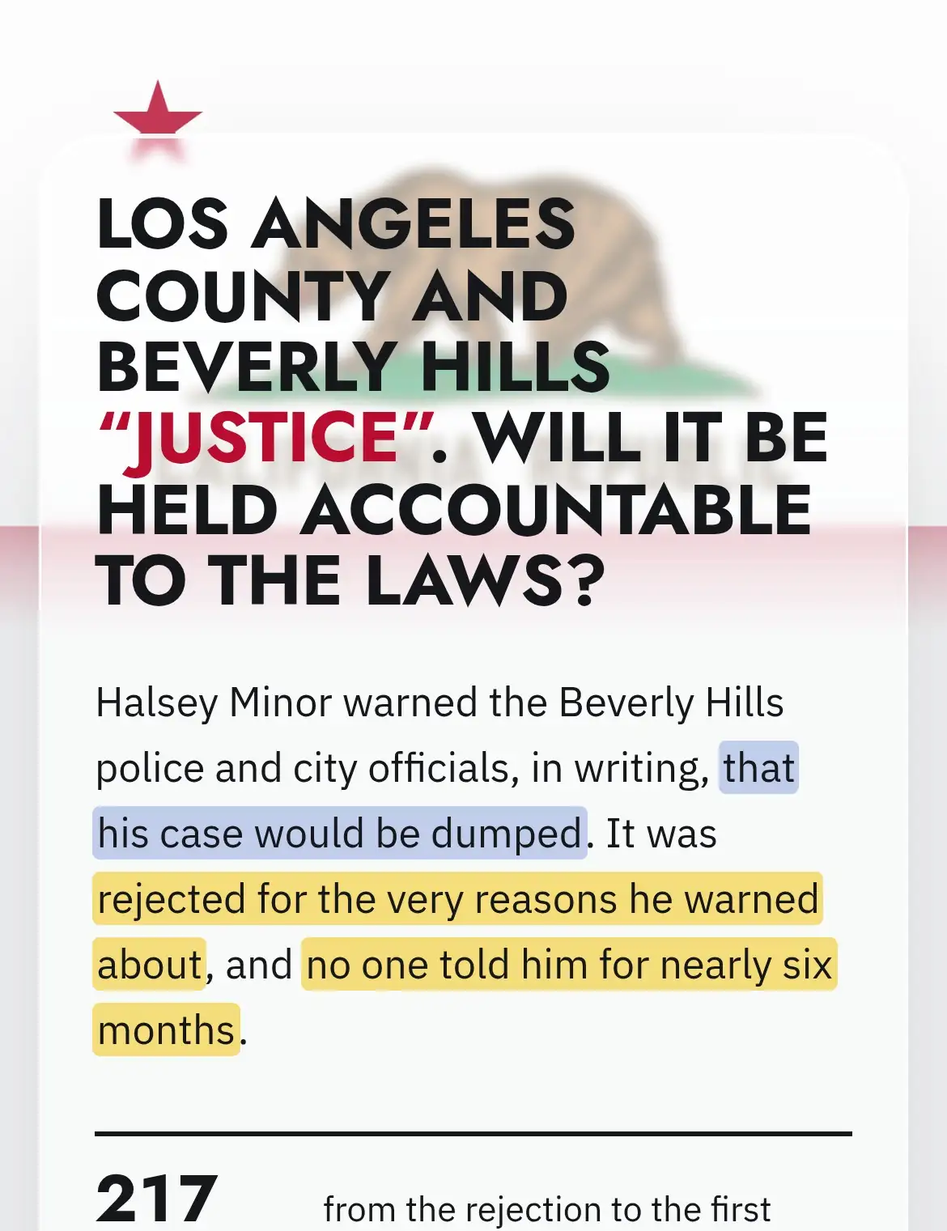
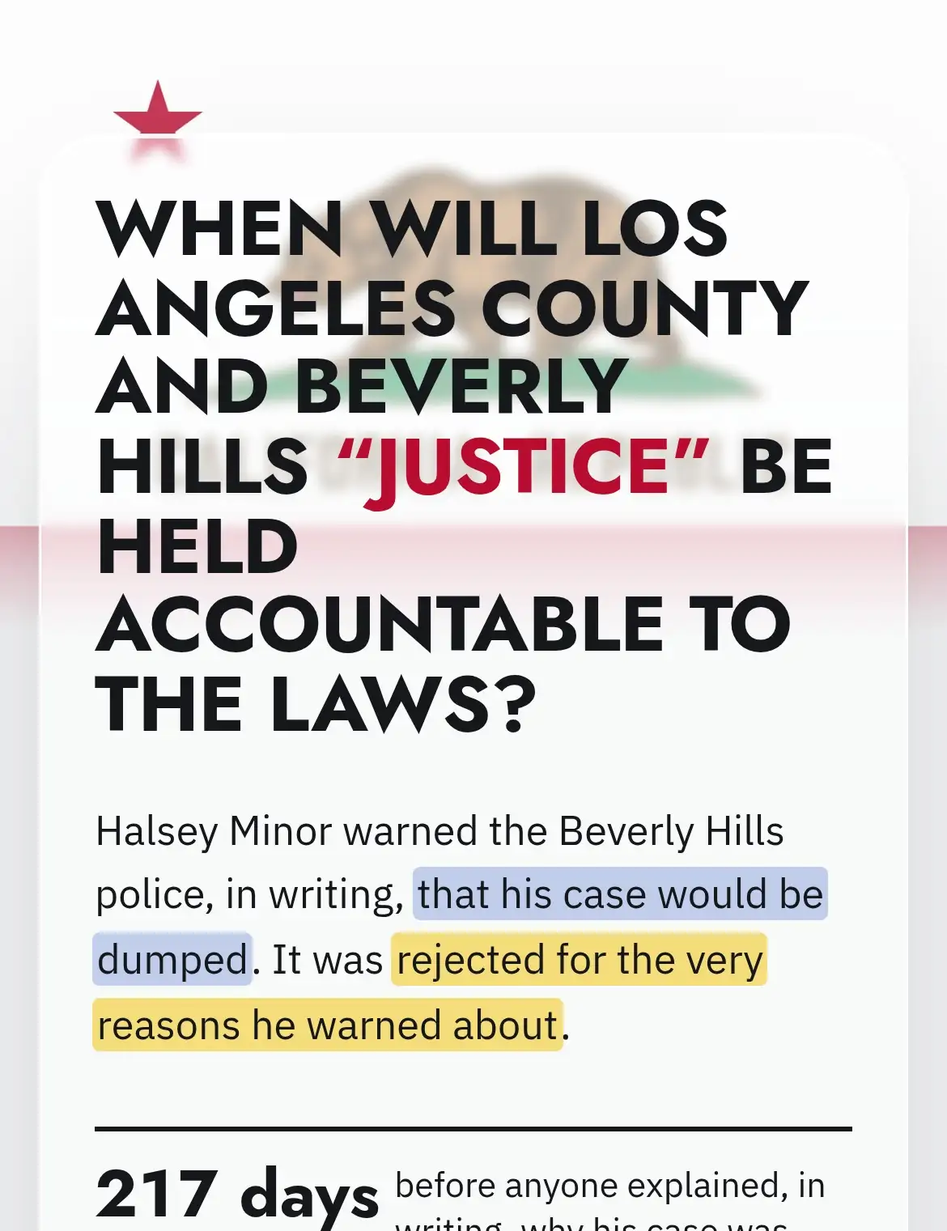
halseyminor.com: counts as of 2026-10-26

Changed region(s): [[0.0923, 0.1545, 0.8923, 0.8652], [0.0923, 0.8961, 0.8923, 1.0]]

diff --git a/index.html b/index.html
@@ -13,20 +13,20 @@
 <meta charset="utf-8">
 <meta name="viewport" content="width=device-width, initial-scale=1, viewport-fit=cover">
 <title>The Justice Meter · Halsey Minor</title>
-<meta name="description" content="Halsey Minor warned the Beverly Hills police and city officials, in writing, that his case would be dumped. It was rejected for the very reasons he warned about, and no one told him for nearly six months.">
+<meta name="description" content="Halsey Minor warned the Beverly Hills police, in writing, that his case would be dumped. It was rejected for the very reasons he warned about.">
 <link rel="canonical" href="https://halseyminor.com/">
 <meta property="og:type" content="website">
 <meta property="og:site_name" content="Halsey Minor">
 <meta property="og:url" content="https://halseyminor.com/">
-<meta property="og:title" content="LOS ANGELES COUNTY AND BEVERLY HILLS “JUSTICE”. WILL IT BE HELD ACCOUNTABLE TO THE LAWS?">
-<meta property="og:description" content="Halsey Minor warned the Beverly Hills police and city officials, in writing, that his case would be dumped. It was rejected for the very reasons he warned about, and no one told him for nearly six months.">
+<meta property="og:title" content="WHEN WILL LOS ANGELES COUNTY AND BEVERLY HILLS “JUSTICE” BE HELD ACCOUNTABLE TO THE LAWS?">
+<meta property="og:description" content="Halsey Minor warned the Beverly Hills police, in writing, that his case would be dumped. It was rejected for the very reasons he warned about.">
 <meta property="og:image" content="https://halseyminor.com/share.png">
 <meta property="og:image:width" content="1200">
 <meta property="og:image:height" content="630">
 <meta property="og:image:alt" content="The Justice Meter: the needle points at injustice.">
 <meta name="twitter:card" content="summary_large_image">
-<meta name="twitter:title" content="LOS ANGELES COUNTY AND BEVERLY HILLS “JUSTICE”. WILL IT BE HELD ACCOUNTABLE TO THE LAWS?">
-<meta name="twitter:description" content="Halsey Minor warned the Beverly Hills police and city officials, in writing, that his case would be dumped. It was rejected for the very reasons he warned about, and no one told him for nearly six months.">
+<meta name="twitter:title" content="WHEN WILL LOS ANGELES COUNTY AND BEVERLY HILLS “JUSTICE” BE HELD ACCOUNTABLE TO THE LAWS?">
+<meta name="twitter:description" content="Halsey Minor warned the Beverly Hills police, in writing, that his case would be dumped. It was rejected for the very reasons he warned about.">
 <meta name="twitter:image" content="https://halseyminor.com/share.png">
 <link rel="icon" href="/favicon.svg" type="image/svg+xml">
 <link rel="icon" href="/favicon-32.png" sizes="32x32" type="image/png">
@@ -108,10 +108,15 @@ h1 .q { color: var(--red) }
 .stats { list-style: none; margin: 28px 0 0; padding: 0; display: grid; grid-auto-flow: column; grid-auto-columns: minmax(0, 1fr); gap: 0; border-top: 2px solid var(--ink) }
 .stats li { padding: 14px 14px 0 0; display: grid; gap: 6px; align-content: start }
 .stats li + li { padding-left: 14px; border-left: 1px solid rgba(21,23,26,.18) }
-.stats li > b { justify-self: start; font: 700 clamp(1.7rem, 3.2vw, 2.6rem)/1 var(--display); font-variant-numeric: tabular-nums; background: linear-gradient(transparent 62%, var(--yellow) 62%) }
+.stats li b { justify-self: start; font: 700 clamp(1.7rem, 3.2vw, 2.6rem)/1 var(--display); font-variant-numeric: tabular-nums; background: linear-gradient(transparent 62%, var(--yellow) 62%) }
 .stats span { font-size: .9rem; line-height: 1.35; color: var(--ink) }
 .stats span span { font-size: inherit }
-@media (max-width: 520px) { .stats { grid-auto-flow: row; grid-template-columns: minmax(0, 1fr) } .stats li, .stats li + li { padding: 12px 0; border-left: 0; border-bottom: 1px solid rgba(21,23,26,.14); grid-template-columns: 5.5rem minmax(0,1fr); align-items: baseline } }
+@media (max-width: 520px) { .stats { grid-auto-flow: row; grid-template-columns: minmax(0, 1fr) } .stats li, .stats li + li { padding: 12px 0; border-left: 0; border-bottom: 1px solid rgba(21,23,26,.14) }
+  .stats .stat-open { grid-template-columns: auto minmax(0,1fr); align-items: baseline; column-gap: 14px } .stats .stat-more { grid-column: 2 } .stats .stat-open > b { white-space: nowrap; align-self: start } }
+.stats .stat-open { all: unset; box-sizing: border-box; display: grid; gap: 6px; align-content: start; width: 100%; cursor: pointer; border-radius: 10px }
+.stats .stat-open:focus-visible { outline: 3px solid var(--blue); outline-offset: 4px } .stats .stat-more { font: 600 13px/1.3 var(--body); font-style: normal; color: var(--blue) }
+.stats .stat-open:hover .stat-more { text-decoration: underline; text-underline-offset: 3px }
+.pop-body ol.rec-list { display: grid; margin: 0 } .pop-body ol.rec-list li { display: grid }
 .meter { margin: 0; display: grid; justify-items: center }
 .meter svg { width: min(100%, 400px); height: auto; display: block; overflow: visible }
 .meter { gap: 14px }
@@ -392,6 +397,7 @@ h2 { margin-bottom: 16px; font-size: clamp(1.4rem, 2.7vw, 2.2rem) }
 .ask { font-size: clamp(2rem, 4.6vw, 3.6rem) }
 .hero.end .hl { margin-top: 14px }
 h1 { font-size: clamp(1.8rem, 3.9vw, 3.4rem) }
+#top h1 { font-size: clamp(2rem, 4.3vw, 3.75rem) }
 .due-count { margin: -6px 0 14px; font-size: .98rem }
 .clock-list li { padding: 8px 0 8px 10px; font-size: .93rem; grid-template-columns: 5.8rem minmax(0, 1fr); gap: 10px }
 .hl { font-size: clamp(1.02rem, 1.7vw, 1.25rem); padding: 14px 18px }
@@ -480,6 +486,36 @@ html.arrive .nav-a.ar-lit { opacity: 1; border-bottom-color: #FFFFFF; text-shado
 .ar-skip { position: absolute; right: max(16px, env(safe-area-inset-right, 0px)); bottom: max(16px, env(safe-area-inset-bottom, 0px)); appearance: none; border: 1px solid rgba(255, 255, 255, .35);
   background: rgba(255, 255, 255, .08); color: #FFFFFF; border-radius: 999px; padding: 9px 16px; font: 600 14px/1 var(--body); letter-spacing: .04em; cursor: pointer }
 </style>
+<style>
+.nx { width: calc(100% - 2 * max(16px, env(safe-area-inset-left, 0px))); max-width: 1160px; margin: 40px auto 44px }
+@media (min-width: 760px) { .nx { width: calc(100% - 2 * max(40px, env(safe-area-inset-left, 0px))); margin: 56px auto 60px } }
+.nx-card { position: relative; display: grid; grid-template-columns: minmax(0, 1fr) clamp(130px, 24vw, 290px); align-items: center; gap: clamp(16px, 3vw, 44px);
+  padding: clamp(22px, 3.4vw, 40px) clamp(20px, 3.6vw, 48px); border-radius: 24px; overflow: hidden; text-decoration: none; color: #FFFFFF;
+  background: radial-gradient(70% 95% at 50% -32%, rgba(255, 249, 232, .32) 0%, rgba(255, 249, 232, 0) 70%), linear-gradient(125deg, #2A66D8 0%, #1F56C3 46%, #173E90 100%);
+  box-shadow: 0 24px 46px -26px rgba(21, 23, 26, .6), inset 0 1px 0 rgba(255, 255, 255, .28) }
+.nx-card:focus-visible { outline: 3px solid #1F56C3; outline-offset: 4px }
+.nx-text { display: grid; gap: 10px; min-width: 0 }
+.nx-k { font: 500 12px/1 "IBM Plex Mono", Menlo, monospace; letter-spacing: .22em; text-transform: uppercase; color: rgba(255, 255, 255, .8) }
+.nx-name { font: 800 clamp(28px, 4.8vw, 54px)/1.04 "Jost", "Futura", "Century Gothic", Arial, sans-serif; letter-spacing: .01em; text-wrap: balance }
+.nx-name span { display: inline-block; transition: transform .35s ease }
+.nx-line { max-width: 34rem; font: 400 clamp(15px, 1.6vw, 18px)/1.45 "IBM Plex Sans", "Helvetica Neue", Arial, sans-serif; color: rgba(255, 255, 255, .9) }
+.nx-line b { font-weight: 600; color: #FFFFFF }
+.nx-track { display: flex; gap: 6px; margin-top: 8px }
+.nx-track i { width: 34px; height: 6px; border-radius: 3px; background: rgba(255, 255, 255, .3) }
+.nx-track i.on { background: #FFFFFF }
+.nx-track i.go { background: transparent; box-shadow: inset 0 0 0 2px #FFFFFF, 0 0 12px rgba(255, 255, 255, .75) }
+.nx-track i.on.go { background: #FFFFFF }
+.nx-pic { perspective: 900px; width: 100%; justify-self: end }
+.nx-img { display: block; width: 100%; height: auto; aspect-ratio: 1 / 1.05; object-fit: cover; object-position: 50% 0; border-radius: 14px;
+  transform: rotateY(-16deg) rotateX(3deg); transform-origin: 70% 50%; box-shadow: -18px 22px 40px -18px rgba(5, 14, 40, .7), 0 0 0 1px rgba(255, 255, 255, .4);
+  transition: transform .5s cubic-bezier(.2, .8, .2, 1) }
+.nx-card:hover .nx-img, .nx-card:focus-visible .nx-img { transform: rotateY(-4deg) rotateX(1deg) translateY(-4px) }
+.nx-card:hover .nx-name span, .nx-card:focus-visible .nx-name span { transform: translateX(6px) }
+@media (prefers-reduced-motion: no-preference) { .nx-track i.go { animation: nx-pulse 1.8s ease-in-out infinite } }
+@keyframes nx-pulse { 50% { box-shadow: inset 0 0 0 2px #FFFFFF, 0 0 2px rgba(255, 255, 255, .2) } }
+@media (prefers-reduced-motion: reduce) { .nx-img, .nx-name span { transition: none } }
+@media (max-width: 599px) { .nx-card { grid-template-columns: minmax(0, 1fr) 108px; gap: 14px; border-radius: 20px } .nx-track i { width: 24px } }
+</style>
 <script>
 (function () {
   var d = document.documentElement;
@@ -515,12 +551,26 @@ html.arrive .nav-a.ar-lit { opacity: 1; border-bottom-color: #FFFFFF; text-shado
   <div class="wrap">
     <div class="glass">
       <div>
-        <h1 data-who="halsey">LOS ANGELES COUNTY AND BEVERLY HILLS <span class="q">“JUSTICE”</span>. WILL IT BE HELD ACCOUNTABLE TO THE LAWS?</h1>
-        <p class="lede">Halsey Minor warned the Beverly Hills police and city officials, in writing, <mark class="h">that his case would be dumped</mark>. It was <mark class="d">rejected for the very reasons he warned about</mark>, and <mark class="d">no one told him for nearly six months</mark>.</p>
+        <h1 data-who="halsey">WHEN WILL LOS ANGELES COUNTY AND BEVERLY HILLS <span class="q">“JUSTICE”</span> BE HELD ACCOUNTABLE TO THE LAWS?</h1>
+        <p class="lede">Halsey Minor warned the Beverly Hills police, in writing, <mark class="h">that his case would be dumped</mark>. It was <mark class="d">rejected for the very reasons he warned about</mark>.</p>
+        <!-- October 26, 2026, his rule: each item understood at a glance, the record one tap away -->
         <ul class="stats">
-          <li><b>217 days</b><span>from the rejection to the first written explanation of it, which came October 22, 2026: nine days after the 30 the law allows, when the victim asks</span></li>
-          <li><b>0 of 8</b><span>requests to be heard that were met</span></li>
+          <li><button class="stat-open" type="button" data-pop="pop-217"><b>217 days</b><span>before anyone explained, in writing, why his case was rejected</span><i class="stat-more">The record →</i></button></li>
+          <li><button class="stat-open" type="button" data-pop="pop-confer"><b>0 of 8</b><span>requests to talk with the prosecutor, granted. California's Constitution gives every victim that right.</span><i class="stat-more">The record →</i></button></li>
         </ul>
+        <dialog class="pop" id="pop-217" aria-labelledby="pop-217-h"><div class="pop-head"><h3 id="pop-217-h">217 days: from the rejection to the first written explanation</h3><button class="pop-x" type="button">Close</button></div><div class="pop-body">
+          <ol class="clock-list rec-list">
+            <li class="d"><span class="t">Mar 19, 2026</span>A deputy district attorney rejects the case.</li>
+            <li class="h"><span class="t">Sep 8, 2026</span>He learns the case was rejected in March: nearly six months on, and no one had told him.</li>
+            <li class="d"><span class="t">Oct 22, 2026</span><span>The first written explanation of the decision: nine days after the 30 the law allows, when the victim asks.<a class="fn" href="#n10">10</a></span></li>
+          </ol>
+          <div class="say law" data-who="law"><span class="tag">The law</span><blockquote>Penal Code §11116.10: on the victim's request, the prosecutor must, “within 30 days of the final disposition of the case, inform the victim or witness by letter”.</blockquote></div>
+        </div></dialog>
+        <dialog class="pop" id="pop-confer" aria-labelledby="pop-confer-h"><div class="pop-head"><h3 id="pop-confer-h">0 of 8: his requests to talk with the prosecutor</h3><button class="pop-x" type="button">Close</button></div><div class="pop-body">
+          <div class="say law" data-who="law"><span class="tag">The right · California Constitution, article I, §28(b)(6) (Marsy's Law)</span><blockquote>Every crime victim has the right “to reasonably confer with the prosecuting agency, upon request”.<a class="fn" href="#n11">11</a></blockquote></div>
+          <div class="say d"><span class="tag">His eight requests</span><p class="rule">March 11 and 18, 2026, before the decision of March 19; then March 20, 23, 29 and 30, and April 6 and 17.</p></div>
+          <div class="say h" data-who="halsey"><span class="tag">Halsey Minor</span><blockquote>“No one in the office conferred with me, before the decision or after it.”</blockquote></div>
+        </div></dialog>
         <div class="fight-row">
           <a class="fight-go" href="#watch"><span class="fg-round">Round <b data-round>10</b></span><span class="fg-go">Battle for Justice <span aria-hidden="true">→</span></span></a>
           <a class="fight-go fed-go" href="/federal/"><span class="fg-round">Round 1</span><span class="fg-go">Going Federal <span aria-hidden="true">→</span></span></a>
@@ -964,6 +1014,7 @@ html.arrive .nav-a.ar-lit { opacity: 1; border-bottom-color: #FFFFFF; text-shado
     </div>
   </section>
 </main>
+<nav class="nx" aria-label="The next page"><a class="nx-card" href="/federal/"><span class="nx-text"><span class="nx-k">Next · 2 of 4</span><span class="nx-name">Going Federal <span aria-hidden="true">→</span></span><span class="nx-line">Why Halsey is going federal</span><span class="nx-track" aria-hidden="true"><i class="on"></i><i class="go"></i><i></i><i></i></span></span><span class="nx-pic" aria-hidden="true"><img class="nx-img" src="/arrive/federal.webp" alt="" width="390" height="507" loading="lazy" decoding="async"></span></a></nav>
 
 <footer>
   <div class="wrap">
@@ -1135,7 +1186,7 @@ html.arrive .nav-a.ar-lit { opacity: 1; border-bottom-color: #FFFFFF; text-shado
   var root = document.documentElement;
   if (!root.classList.contains('arrive')) return;
   var PAGES = [
-    { name: 'Home: Fight for Justice', title: 'The Justice Meter', line: 'Will it be held accountable to the laws?', face: '/arrive/home.webp', face2: '/arrive/home-2x.webp' },
+    { name: 'Home: Fight for Justice', title: 'The Justice Meter', line: 'When will it be held accountable to the laws?', face: '/arrive/home.webp', face2: '/arrive/home-2x.webp' },
     { name: 'Going Federal', title: '', line: 'Why Halsey is going federal', face: '/arrive/federal.webp', face2: '/arrive/federal-2x.webp' },
     { name: 'Mission', title: 'OperatingEquity.ai', line: 'AI-powered companies that address fundamental societal problems', face: '/arrive/mission.webp', face2: '/arrive/mission-2x.webp' },
     { name: 'Legacy', title: 'Minor on the Law', line: 'Four generations of one family’s argument with the law', face: '/arrive/legacy.webp', face2: '/arrive/legacy-2x.webp' }

diff --git a/federal/index.html b/federal/index.html
@@ -100,10 +100,15 @@ h1 .q { color: var(--red) }
 .stats { list-style: none; margin: 28px 0 0; padding: 0; display: grid; grid-auto-flow: column; grid-auto-columns: minmax(0, 1fr); gap: 0; border-top: 2px solid var(--ink) }
 .stats li { padding: 14px 14px 0 0; display: grid; gap: 6px; align-content: start }
 .stats li + li { padding-left: 14px; border-left: 1px solid rgba(21,23,26,.18) }
-.stats li > b { justify-self: start; font: 700 clamp(1.7rem, 3.2vw, 2.6rem)/1 var(--display); font-variant-numeric: tabular-nums; background: linear-gradient(transparent 62%, var(--yellow) 62%) }
+.stats li b { justify-self: start; font: 700 clamp(1.7rem, 3.2vw, 2.6rem)/1 var(--display); font-variant-numeric: tabular-nums; background: linear-gradient(transparent 62%, var(--yellow) 62%) }
 .stats span { font-size: .9rem; line-height: 1.35; color: var(--ink) }
 .stats span span { font-size: inherit }
-@media (max-width: 520px) { .stats { grid-auto-flow: row; grid-template-columns: minmax(0, 1fr) } .stats li, .stats li + li { padding: 12px 0; border-left: 0; border-bottom: 1px solid rgba(21,23,26,.14); grid-template-columns: 5.5rem minmax(0,1fr); align-items: baseline } }
+@media (max-width: 520px) { .stats { grid-auto-flow: row; grid-template-columns: minmax(0, 1fr) } .stats li, .stats li + li { padding: 12px 0; border-left: 0; border-bottom: 1px solid rgba(21,23,26,.14) }
+  .stats .stat-open { grid-template-columns: auto minmax(0,1fr); align-items: baseline; column-gap: 14px } .stats .stat-more { grid-column: 2 } .stats .stat-open > b { white-space: nowrap; align-self: start } }
+.stats .stat-open { all: unset; box-sizing: border-box; display: grid; gap: 6px; align-content: start; width: 100%; cursor: pointer; border-radius: 10px }
+.stats .stat-open:focus-visible { outline: 3px solid var(--blue); outline-offset: 4px } .stats .stat-more { font: 600 13px/1.3 var(--body); font-style: normal; color: var(--blue) }
+.stats .stat-open:hover .stat-more { text-decoration: underline; text-underline-offset: 3px }
+.pop-body ol.rec-list { display: grid; margin: 0 } .pop-body ol.rec-list li { display: grid }
 .meter { margin: 0; display: grid; justify-items: center }
 .meter svg { width: min(100%, 400px); height: auto; display: block; overflow: visible }
 .meter { gap: 14px }
@@ -384,6 +389,7 @@ h2 { margin-bottom: 16px; font-size: clamp(1.4rem, 2.7vw, 2.2rem) }
 .ask { font-size: clamp(2rem, 4.6vw, 3.6rem) }
 .hero.end .hl { margin-top: 14px }
 h1 { font-size: clamp(1.8rem, 3.9vw, 3.4rem) }
+#top h1 { font-size: clamp(2rem, 4.3vw, 3.75rem) }
 .due-count { margin: -6px 0 14px; font-size: .98rem }
 .clock-list li { padding: 8px 0 8px 10px; font-size: .93rem; grid-template-columns: 5.8rem minmax(0, 1fr); gap: 10px }
 .hl { font-size: clamp(1.02rem, 1.7vw, 1.25rem); padding: 14px 18px }
@@ -602,6 +608,36 @@ li.late .viol { display: block; margin-top: 3px; font: 700 .86rem/1.3 var(--body
   });
 })();
 </script>
+<style>
+.nx { width: calc(100% - 2 * max(16px, env(safe-area-inset-left, 0px))); max-width: 1160px; margin: 40px auto 44px }
+@media (min-width: 760px) { .nx { width: calc(100% - 2 * max(40px, env(safe-area-inset-left, 0px))); margin: 56px auto 60px } }
+.nx-card { position: relative; display: grid; grid-template-columns: minmax(0, 1fr) clamp(130px, 24vw, 290px); align-items: center; gap: clamp(16px, 3vw, 44px);
+  padding: clamp(22px, 3.4vw, 40px) clamp(20px, 3.6vw, 48px); border-radius: 24px; overflow: hidden; text-decoration: none; color: #FFFFFF;
+  background: radial-gradient(70% 95% at 50% -32%, rgba(255, 249, 232, .32) 0%, rgba(255, 249, 232, 0) 70%), linear-gradient(125deg, #2A66D8 0%, #1F56C3 46%, #173E90 100%);
+  box-shadow: 0 24px 46px -26px rgba(21, 23, 26, .6), inset 0 1px 0 rgba(255, 255, 255, .28) }
+.nx-card:focus-visible { outline: 3px solid #1F56C3; outline-offset: 4px }
+.nx-text { display: grid; gap: 10px; min-width: 0 }
+.nx-k { font: 500 12px/1 "IBM Plex Mono", Menlo, monospace; letter-spacing: .22em; text-transform: uppercase; color: rgba(255, 255, 255, .8) }
+.nx-name { font: 800 clamp(28px, 4.8vw, 54px)/1.04 "Jost", "Futura", "Century Gothic", Arial, sans-serif; letter-spacing: .01em; text-wrap: balance }
+.nx-name span { display: inline-block; transition: transform .35s ease }
+.nx-line { max-width: 34rem; font: 400 clamp(15px, 1.6vw, 18px)/1.45 "IBM Plex Sans", "Helvetica Neue", Arial, sans-serif; color: rgba(255, 255, 255, .9) }
+.nx-line b { font-weight: 600; color: #FFFFFF }
+.nx-track { display: flex; gap: 6px; margin-top: 8px }
+.nx-track i { width: 34px; height: 6px; border-radius: 3px; background: rgba(255, 255, 255, .3) }
+.nx-track i.on { background: #FFFFFF }
+.nx-track i.go { background: transparent; box-shadow: inset 0 0 0 2px #FFFFFF, 0 0 12px rgba(255, 255, 255, .75) }
+.nx-track i.on.go { background: #FFFFFF }
+.nx-pic { perspective: 900px; width: 100%; justify-self: end }
+.nx-img { display: block; width: 100%; height: auto; aspect-ratio: 1 / 1.05; object-fit: cover; object-position: 50% 0; border-radius: 14px;
+  transform: rotateY(-16deg) rotateX(3deg); transform-origin: 70% 50%; box-shadow: -18px 22px 40px -18px rgba(5, 14, 40, .7), 0 0 0 1px rgba(255, 255, 255, .4);
+  transition: transform .5s cubic-bezier(.2, .8, .2, 1) }
+.nx-card:hover .nx-img, .nx-card:focus-visible .nx-img { transform: rotateY(-4deg) rotateX(1deg) translateY(-4px) }
+.nx-card:hover .nx-name span, .nx-card:focus-visible .nx-name span { transform: translateX(6px) }
+@media (prefers-reduced-motion: no-preference) { .nx-track i.go { animation: nx-pulse 1.8s ease-in-out infinite } }
+@keyframes nx-pulse { 50% { box-shadow: inset 0 0 0 2px #FFFFFF, 0 0 2px rgba(255, 255, 255, .2) } }
+@media (prefers-reduced-motion: reduce) { .nx-img, .nx-name span { transition: none } }
+@media (max-width: 599px) { .nx-card { grid-template-columns: minmax(0, 1fr) 108px; gap: 14px; border-radius: 20px } .nx-track i { width: 24px } }
+</style>
 </head>
 <body>
 <nav class="topnav" aria-label="Halsey Minor">
@@ -629,6 +665,7 @@ li.late .viol { display: block; margin-top: 3px; font: 700 .86rem/1.3 var(--body
 <article class="fm fed" data-m="M001 M002 M003"><p class="fm-tag">Federal public-corruption convictions, by federal district, 1976 to 2021</p><p class="fm-big">1,625</p><p class="fm-what">in the district of Central California, which includes Los Angeles: second only to Northern Illinois.</p><div class="bars fed"><div class="br"><span class="bl">Northern Illinois</span><span class="bt"><span class="bf mute" style="width:100.000%" data-v="1824" title="Northern Illinois: 1,824"></span></span><span class="bv">1,824</span></div><div class="br"><span class="bl">Central California, which includes Los Angeles</span><span class="bt"><span class="bf fed" style="width:89.090%" data-v="1625" title="Central California, which includes Los Angeles: 1,625"></span></span><span class="bv">1,625</span></div><div class="br"><span class="bl">Southern New York</span><span class="bt"><span class="bf mute" style="width:76.042%" data-v="1387" title="Southern New York: 1,387"></span></span><span class="bv">1,387</span></div></div><details><summary>Every figure</summary><table><tr><td>Northern Illinois</td><td class="v" data-m="M001">1,824</td><td></td></tr><tr><td>Central California</td><td class="v" data-m="M002">1,625</td><td></td></tr><tr><td>Southern New York</td><td class="v" data-m="M003">1,387</td><td></td></tr></table></details><p class="fm-src">University study of federal data · University of Illinois Chicago · <a href="https://pols.uic.edu/wp-content/uploads/sites/273/2023/11/Corruption-Rpt-15-Final.11.2.23.pdf" rel="external">Source</a></p><p class="fm-lim">Absolute convictions in federal districts; not population adjusted, underlying corruption prevalence, or a city/county justice ranking. Three highest districts in source table.</p></article>
 <article class="fm fed" data-ev-list><p class="fm-tag">The United States Department of Justice</p><ol class="tl"><li class="la" data-ev="2"><span class="tl-y">2015</span><span class="tl-m"></span><span class="tl-b"><span class="usdoj">U.S. Department of Justice</span> <b>Los Angeles County jails.</b> Suicide risks, inadequate mental-health care and excessive force. <span class="tl-s">Federal settlement requiring reforms.</span> <a href="https://www.justice.gov/archives/opa/pr/justice-department-reaches-agreement-los-angeles-county-implement-sweeping-reforms-mental" rel="external">Source</a></span></li><li class="la" data-ev="1"><span class="tl-y">2013 → 2015</span><span class="tl-m"></span><span class="tl-b"><span class="usdoj">U.S. Department of Justice</span> <b>LASD · Antelope Valley.</b> DOJ findings on unconstitutional policing and discrimination in housing-related enforcement. <span class="tl-s">Federal settlement in 2015.</span> <a href="https://www.justice.gov/archives/opa/pr/justice-department-and-los-angeles-county-sheriffs-department-agree-policing-reforms-and" rel="external">Source</a></span></li><li class="la" data-ev="0"><span class="tl-y">2000</span><span class="tl-m"></span><span class="tl-b"><span class="usdoj">U.S. Department of Justice</span> <b>LAPD.</b> DOJ pattern-or-practice claims: excessive force, false arrests, unlawful searches and seizures. <span class="tl-s">Consent-decree agreement announced.</span> <a href="https://www.justice.gov/archive/opa/pr/2000/November/643cr.htm" rel="external">Source</a></span></li></ol></article></section>
 <div class="fed-end"><p>Compiled in October 2026 from the publications linked above, and checked against each of them on October 2, 2026. Each measure stands on its own source: no score and no ranking. The State Bar is not included.</p></div></main>
+<nav class="nx" aria-label="The next page"><a class="nx-card" href="/mission/"><span class="nx-text"><span class="nx-k">Next · 3 of 4</span><span class="nx-name">Mission <span aria-hidden="true">→</span></span><span class="nx-line"><b>OperatingEquity.ai</b> · AI-powered companies that address fundamental societal problems</span><span class="nx-track" aria-hidden="true"><i class="on"></i><i class="on"></i><i class="go"></i><i></i></span></span><span class="nx-pic" aria-hidden="true"><img class="nx-img" src="/arrive/mission.webp" alt="" width="390" height="507" loading="lazy" decoding="async"></span></a></nav>
 
 </body>
 </html>

diff --git a/mission/index.html b/mission/index.html
@@ -13,12 +13,12 @@
 <meta charset="utf-8">
 <meta name="viewport" content="width=device-width, initial-scale=1, viewport-fit=cover">
 <title>Mission · Halsey Minor</title>
-<meta name="description" content="OperatingEquity.ai builds AI-powered companies that address fundamental societal problems: restoring trust in information, expanding access to justice, and delivering accessible, affordable, measurable mental health support.">
+<meta name="description" content="OperatingEquity.ai builds AI-powered companies that address fundamental societal problems: restoring trust in news and information, expanding access to justice, and delivering accessible, affordable, measurable mental health support.">
 <link rel="canonical" href="https://halseyminor.com/mission/">
 <meta property="og:type" content="website">
 <meta property="og:url" content="https://halseyminor.com/mission/">
 <meta property="og:title" content="Mission · Halsey Minor">
-<meta property="og:description" content="OperatingEquity.ai builds AI-powered companies that address fundamental societal problems: restoring trust in information, expanding access to justice, and delivering accessible, affordable, measurable mental health support.">
+<meta property="og:description" content="OperatingEquity.ai builds AI-powered companies that address fundamental societal problems: restoring trust in news and information, expanding access to justice, and delivering accessible, affordable, measurable mental health support.">
 <meta property="og:image" content="https://halseyminor.com/share.png">
 <link rel="icon" href="/favicon.svg" type="image/svg+xml">
 <link rel="icon" href="/favicon-32.png" sizes="32x32" type="image/png">
@@ -101,10 +101,15 @@ h1 .q { color: var(--red) }
 .stats { list-style: none; margin: 28px 0 0; padding: 0; display: grid; grid-auto-flow: column; grid-auto-columns: minmax(0, 1fr); gap: 0; border-top: 2px solid var(--ink) }
 .stats li { padding: 14px 14px 0 0; display: grid; gap: 6px; align-content: start }
 .stats li + li { padding-left: 14px; border-left: 1px solid rgba(21,23,26,.18) }
-.stats li > b { justify-self: start; font: 700 clamp(1.7rem, 3.2vw, 2.6rem)/1 var(--display); font-variant-numeric: tabular-nums; background: linear-gradient(transparent 62%, var(--yellow) 62%) }
+.stats li b { justify-self: start; font: 700 clamp(1.7rem, 3.2vw, 2.6rem)/1 var(--display); font-variant-numeric: tabular-nums; background: linear-gradient(transparent 62%, var(--yellow) 62%) }
 .stats span { font-size: .9rem; line-height: 1.35; color: var(--ink) }
 .stats span span { font-size: inherit }
-@media (max-width: 520px) { .stats { grid-auto-flow: row; grid-template-columns: minmax(0, 1fr) } .stats li, .stats li + li { padding: 12px 0; border-left: 0; border-bottom: 1px solid rgba(21,23,26,.14); grid-template-columns: 5.5rem minmax(0,1fr); align-items: baseline } }
+@media (max-width: 520px) { .stats { grid-auto-flow: row; grid-template-columns: minmax(0, 1fr) } .stats li, .stats li + li { padding: 12px 0; border-left: 0; border-bottom: 1px solid rgba(21,23,26,.14) }
+  .stats .stat-open { grid-template-columns: auto minmax(0,1fr); align-items: baseline; column-gap: 14px } .stats .stat-more { grid-column: 2 } .stats .stat-open > b { white-space: nowrap; align-self: start } }
+.stats .stat-open { all: unset; box-sizing: border-box; display: grid; gap: 6px; align-content: start; width: 100%; cursor: pointer; border-radius: 10px }
+.stats .stat-open:focus-visible { outline: 3px solid var(--blue); outline-offset: 4px } .stats .stat-more { font: 600 13px/1.3 var(--body); font-style: normal; color: var(--blue) }
+.stats .stat-open:hover .stat-more { text-decoration: underline; text-underline-offset: 3px }
+.pop-body ol.rec-list { display: grid; margin: 0 } .pop-body ol.rec-list li { display: grid }
 .meter { margin: 0; display: grid; justify-items: center }
 .meter svg { width: min(100%, 400px); height: auto; display: block; overflow: visible }
 .meter { gap: 14px }
@@ -385,6 +390,7 @@ h2 { margin-bottom: 16px; font-size: clamp(1.4rem, 2.7vw, 2.2rem) }
 .ask { font-size: clamp(2rem, 4.6vw, 3.6rem) }
 .hero.end .hl { margin-top: 14px }
 h1 { font-size: clamp(1.8rem, 3.9vw, 3.4rem) }
+#top h1 { font-size: clamp(2rem, 4.3vw, 3.75rem) }
 .due-count { margin: -6px 0 14px; font-size: .98rem }
 .clock-list li { padding: 8px 0 8px 10px; font-size: .93rem; grid-template-columns: 5.8rem minmax(0, 1fr); gap: 10px }
 .hl { font-size: clamp(1.02rem, 1.7vw, 1.25rem); padding: 14px 18px }
@@ -608,6 +614,36 @@ html { background: #D9E2F0 } body { background: transparent }
 .mission h3 a { color: inherit; text-underline-offset: 3px }
 .notes-m { font-size: .9rem; color: var(--muted) }
 </style>
+<style>
+.nx { width: calc(100% - 2 * max(16px, env(safe-area-inset-left, 0px))); max-width: 1160px; margin: 40px auto 44px }
+@media (min-width: 760px) { .nx { width: calc(100% - 2 * max(40px, env(safe-area-inset-left, 0px))); margin: 56px auto 60px } }
+.nx-card { position: relative; display: grid; grid-template-columns: minmax(0, 1fr) clamp(130px, 24vw, 290px); align-items: center; gap: clamp(16px, 3vw, 44px);
+  padding: clamp(22px, 3.4vw, 40px) clamp(20px, 3.6vw, 48px); border-radius: 24px; overflow: hidden; text-decoration: none; color: #FFFFFF;
+  background: radial-gradient(70% 95% at 50% -32%, rgba(255, 249, 232, .32) 0%, rgba(255, 249, 232, 0) 70%), linear-gradient(125deg, #2A66D8 0%, #1F56C3 46%, #173E90 100%);
+  box-shadow: 0 24px 46px -26px rgba(21, 23, 26, .6), inset 0 1px 0 rgba(255, 255, 255, .28) }
+.nx-card:focus-visible { outline: 3px solid #1F56C3; outline-offset: 4px }
+.nx-text { display: grid; gap: 10px; min-width: 0 }
+.nx-k { font: 500 12px/1 "IBM Plex Mono", Menlo, monospace; letter-spacing: .22em; text-transform: uppercase; color: rgba(255, 255, 255, .8) }
+.nx-name { font: 800 clamp(28px, 4.8vw, 54px)/1.04 "Jost", "Futura", "Century Gothic", Arial, sans-serif; letter-spacing: .01em; text-wrap: balance }
+.nx-name span { display: inline-block; transition: transform .35s ease }
+.nx-line { max-width: 34rem; font: 400 clamp(15px, 1.6vw, 18px)/1.45 "IBM Plex Sans", "Helvetica Neue", Arial, sans-serif; color: rgba(255, 255, 255, .9) }
+.nx-line b { font-weight: 600; color: #FFFFFF }
+.nx-track { display: flex; gap: 6px; margin-top: 8px }
+.nx-track i { width: 34px; height: 6px; border-radius: 3px; background: rgba(255, 255, 255, .3) }
+.nx-track i.on { background: #FFFFFF }
+.nx-track i.go { background: transparent; box-shadow: inset 0 0 0 2px #FFFFFF, 0 0 12px rgba(255, 255, 255, .75) }
+.nx-track i.on.go { background: #FFFFFF }
+.nx-pic { perspective: 900px; width: 100%; justify-self: end }
+.nx-img { display: block; width: 100%; height: auto; aspect-ratio: 1 / 1.05; object-fit: cover; object-position: 50% 0; border-radius: 14px;
+  transform: rotateY(-16deg) rotateX(3deg); transform-origin: 70% 50%; box-shadow: -18px 22px 40px -18px rgba(5, 14, 40, .7), 0 0 0 1px rgba(255, 255, 255, .4);
+  transition: transform .5s cubic-bezier(.2, .8, .2, 1) }
+.nx-card:hover .nx-img, .nx-card:focus-visible .nx-img { transform: rotateY(-4deg) rotateX(1deg) translateY(-4px) }
+.nx-card:hover .nx-name span, .nx-card:focus-visible .nx-name span { transform: translateX(6px) }
+@media (prefers-reduced-motion: no-preference) { .nx-track i.go { animation: nx-pulse 1.8s ease-in-out infinite } }
+@keyframes nx-pulse { 50% { box-shadow: inset 0 0 0 2px #FFFFFF, 0 0 2px rgba(255, 255, 255, .2) } }
+@media (prefers-reduced-motion: reduce) { .nx-img, .nx-name span { transition: none } }
+@media (max-width: 599px) { .nx-card { grid-template-columns: minmax(0, 1fr) 108px; gap: 14px; border-radius: 20px } .nx-track i { width: 24px } }
+</style>
 </head>
 <body>
 <nav class="topnav" aria-label="Halsey Minor">
@@ -623,7 +659,7 @@ html { background: #D9E2F0 } body { background: transparent }
   <div class="oe-in wrap">
     <div class="oe-glass oe-fade">
       <h1 class="oe-st"><span class="oe-lead">OperatingEquity.ai builds AI-powered companies that address fundamental societal problems:</span>
-        <span class="oe-li">restoring trust in information,</span>
+        <span class="oe-li">restoring trust in news and information,</span>
         <span class="oe-li">expanding access to justice,</span>
         <span class="oe-li">and delivering accessible, affordable, measurable mental health support.</span></h1>
       <p class="oe-dbl">We pursue a double bottom line: commercial success and meaningful improvements in people’s lives.</p>
@@ -767,6 +803,7 @@ html { background: #D9E2F0 } body { background: transparent }
     <li id="n17" value="17">Legal Justice AI, written by him. The first cover to carry a date reads July 11, 2024. The vision line is from Draft 30 of his plan; the CNET line is from Draft 32. The video titles and dates are as Vimeo gives them.</li>
   </ol>
 </main>
+<nav class="nx" aria-label="The next page"><a class="nx-card" href="/legacy/"><span class="nx-text"><span class="nx-k">Next · 4 of 4</span><span class="nx-name">Legacy <span aria-hidden="true">→</span></span><span class="nx-line"><b>Minor on the Law</b> · Four generations of one family’s argument with the law</span><span class="nx-track" aria-hidden="true"><i class="on"></i><i class="on"></i><i class="on"></i><i class="go"></i></span></span><span class="nx-pic" aria-hidden="true"><img class="nx-img" src="/arrive/legacy.webp" alt="" width="390" height="507" loading="lazy" decoding="async"></span></a></nav>
 <script>
 (function () {
   // the light at the top, as on operatingequity.ai: very large circles centred well below the screen, a third of a screen apart, drifting

diff --git a/legacy/index.html b/legacy/index.html
@@ -250,6 +250,36 @@ dialog.viewer::backdrop { background: var(--veil) }
   .firm li::before, .firm li.his::before { margin: 4px 0 0; justify-self: center }
 }
 </style>
+<style>
+.nx { width: calc(100% - 2 * max(16px, env(safe-area-inset-left, 0px))); max-width: 1160px; margin: 40px auto 44px }
+@media (min-width: 760px) { .nx { width: calc(100% - 2 * max(40px, env(safe-area-inset-left, 0px))); margin: 56px auto 60px } }
+.nx-card { position: relative; display: grid; grid-template-columns: minmax(0, 1fr) clamp(130px, 24vw, 290px); align-items: center; gap: clamp(16px, 3vw, 44px);
+  padding: clamp(22px, 3.4vw, 40px) clamp(20px, 3.6vw, 48px); border-radius: 24px; overflow: hidden; text-decoration: none; color: #FFFFFF;
+  background: radial-gradient(70% 95% at 50% -32%, rgba(255, 249, 232, .32) 0%, rgba(255, 249, 232, 0) 70%), linear-gradient(125deg, #2A66D8 0%, #1F56C3 46%, #173E90 100%);
+  box-shadow: 0 24px 46px -26px rgba(21, 23, 26, .6), inset 0 1px 0 rgba(255, 255, 255, .28) }
+.nx-card:focus-visible { outline: 3px solid #1F56C3; outline-offset: 4px }
+.nx-text { display: grid; gap: 10px; min-width: 0 }
+.nx-k { font: 500 12px/1 "IBM Plex Mono", Menlo, monospace; letter-spacing: .22em; text-transform: uppercase; color: rgba(255, 255, 255, .8) }
+.nx-name { font: 800 clamp(28px, 4.8vw, 54px)/1.04 "Jost", "Futura", "Century Gothic", Arial, sans-serif; letter-spacing: .01em; text-wrap: balance }
+.nx-name span { display: inline-block; transition: transform .35s ease }
+.nx-line { max-width: 34rem; font: 400 clamp(15px, 1.6vw, 18px)/1.45 "IBM Plex Sans", "Helvetica Neue", Arial, sans-serif; color: rgba(255, 255, 255, .9) }
+.nx-line b { font-weight: 600; color: #FFFFFF }
+.nx-track { display: flex; gap: 6px; margin-top: 8px }
+.nx-track i { width: 34px; height: 6px; border-radius: 3px; background: rgba(255, 255, 255, .3) }
+.nx-track i.on { background: #FFFFFF }
+.nx-track i.go { background: transparent; box-shadow: inset 0 0 0 2px #FFFFFF, 0 0 12px rgba(255, 255, 255, .75) }
+.nx-track i.on.go { background: #FFFFFF }
+.nx-pic { perspective: 900px; width: 100%; justify-self: end }
+.nx-img { display: block; width: 100%; height: auto; aspect-ratio: 1 / 1.05; object-fit: cover; object-position: 50% 0; border-radius: 14px;
+  transform: rotateY(-16deg) rotateX(3deg); transform-origin: 70% 50%; box-shadow: -18px 22px 40px -18px rgba(5, 14, 40, .7), 0 0 0 1px rgba(255, 255, 255, .4);
+  transition: transform .5s cubic-bezier(.2, .8, .2, 1) }
+.nx-card:hover .nx-img, .nx-card:focus-visible .nx-img { transform: rotateY(-4deg) rotateX(1deg) translateY(-4px) }
+.nx-card:hover .nx-name span, .nx-card:focus-visible .nx-name span { transform: translateX(6px) }
+@media (prefers-reduced-motion: no-preference) { .nx-track i.go { animation: nx-pulse 1.8s ease-in-out infinite } }
+@keyframes nx-pulse { 50% { box-shadow: inset 0 0 0 2px #FFFFFF, 0 0 2px rgba(255, 255, 255, .2) } }
+@media (prefers-reduced-motion: reduce) { .nx-img, .nx-name span { transition: none } }
+@media (max-width: 599px) { .nx-card { grid-template-columns: minmax(0, 1fr) 108px; gap: 14px; border-radius: 20px } .nx-track i { width: 24px } }
+</style>
 </head>
 <body>
 <nav class="topnav" aria-label="Halsey Minor">
@@ -445,6 +475,7 @@ dialog.viewer::backdrop { background: var(--veil) }
 
   </div>
 </main>
+<nav class="nx" aria-label="The next page"><a class="nx-card" href="/"><span class="nx-text"><span class="nx-k">Next · 1 of 4</span><span class="nx-name">Home: Fight for Justice <span aria-hidden="true">→</span></span><span class="nx-line"><b>The Justice Meter</b> · When will it be held accountable to the laws?</span><span class="nx-track" aria-hidden="true"><i class="on go"></i><i class="on"></i><i class="on"></i><i class="on"></i></span></span><span class="nx-pic" aria-hidden="true"><img class="nx-img" src="/arrive/home.webp" alt="" width="390" height="507" loading="lazy" decoding="async"></span></a></nav>
 
 <dialog class="reader era-1" id="r-truce" aria-labelledby="r-truce-h">
   <header class="rd-head"><div><p class="chip">Division I · 3 March 1865</p><h3 id="r-truce-h">The flag of truce</h3><p class="yrs">Sheridan and Custer enter Charlottesville</p></div><button type="button" class="rd-x" data-close aria-label="Close">×</button></header>
